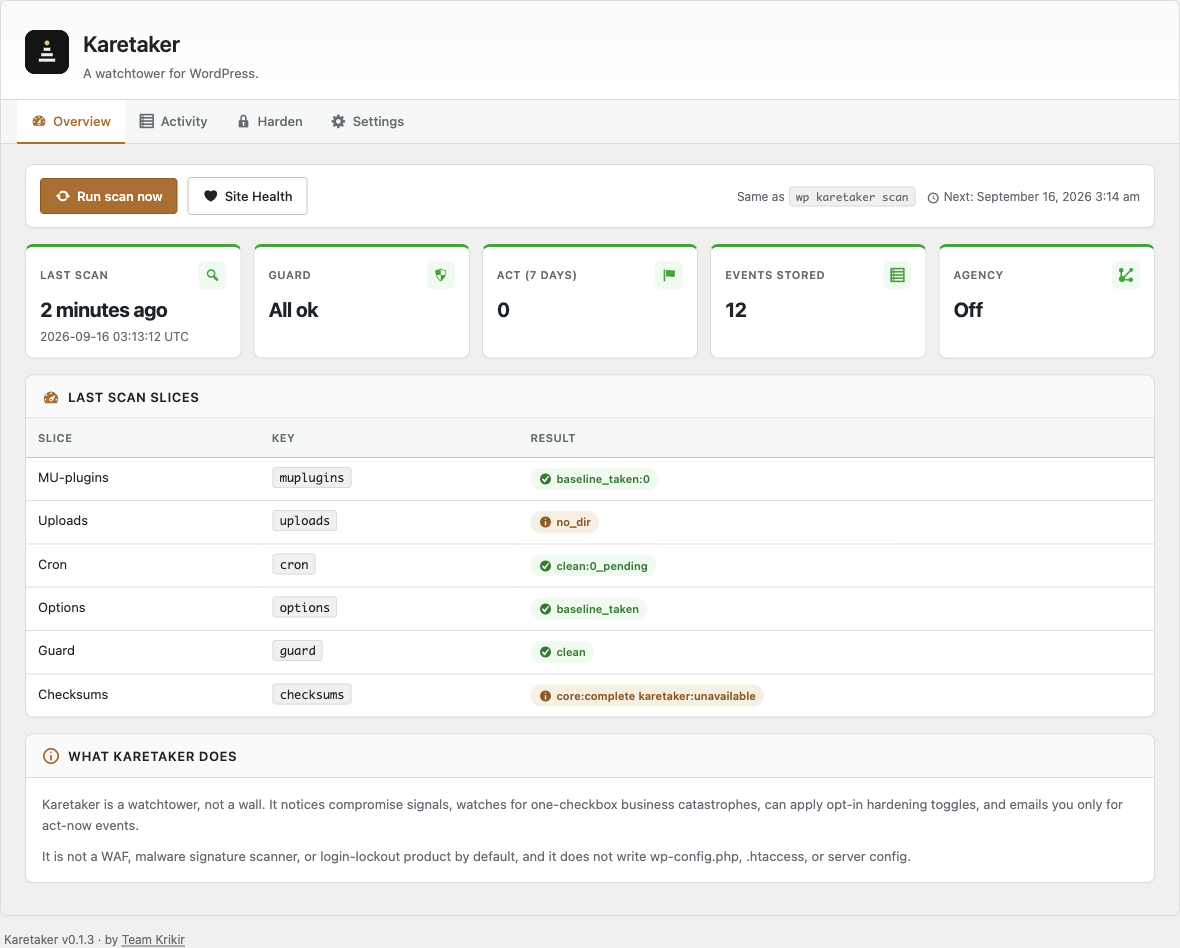
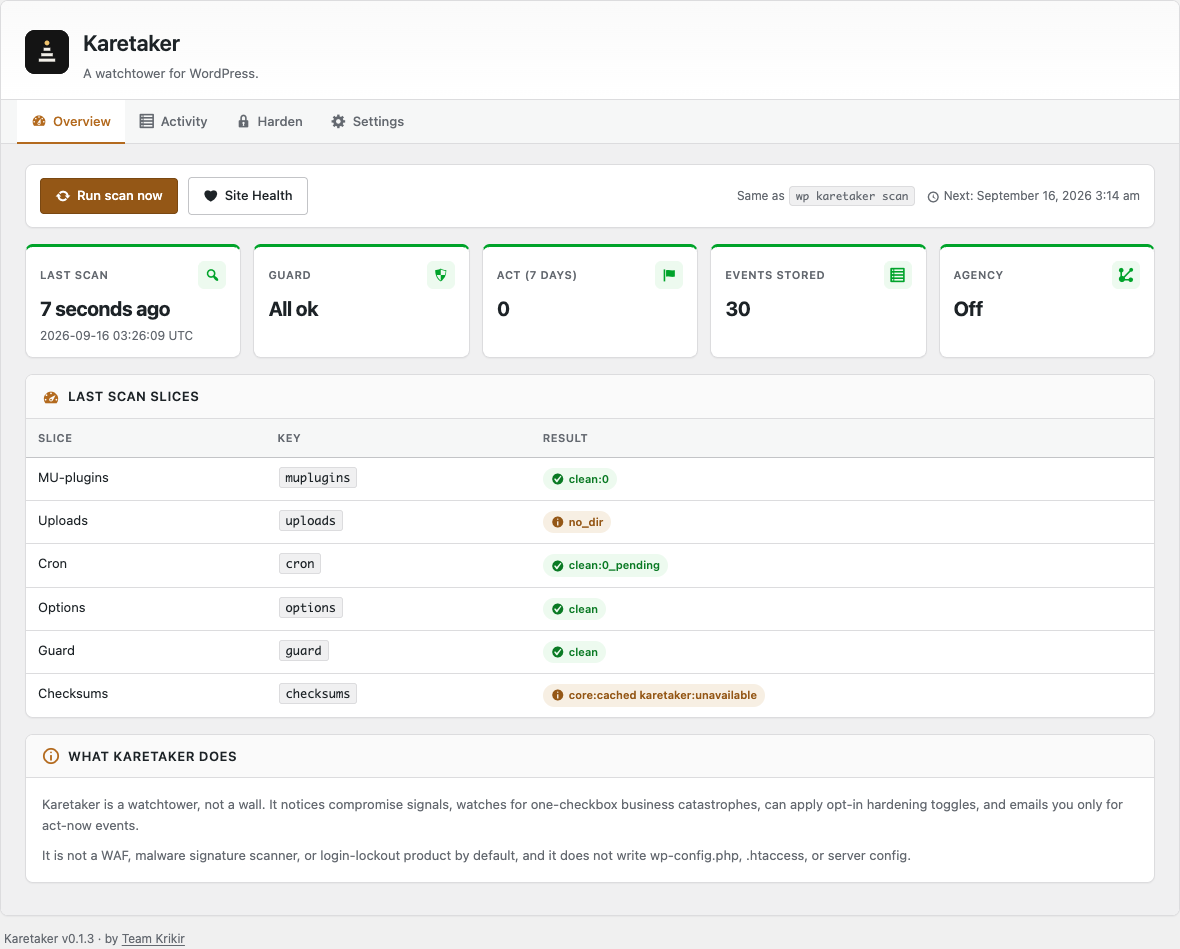
Recapture screenshots with Playwright element shots.
Use one scripted method so admin frames keep the logo and full height, and the ACT email is captured without iframe clipping.

diff --git a/tools/capture-screenshots.py b/tools/capture-screenshots.py
@@ -1,0 +1,228 @@
+#!/usr/bin/env python3
+"""Capture Karetaker admin screenshots via Playwright (full element, no clip)."""
+
+from __future__ import annotations
+
+import sys
+from pathlib import Path
+
+from playwright.sync_api import sync_playwright
+
+ROOT = Path(__file__).resolve().parents[1]
+OUT = ROOT / "assets"
+BASE = "http://127.0.0.1:9410"
+CHROME = (
+	Path.home()
+	/ "Library/Caches/ms-playwright/chromium-1243/chrome-mac-arm64"
+	/ "Google Chrome for Testing.app/Contents/MacOS/Google Chrome for Testing"
+)
+
+TABS = [
+	("screenshot-1.png", f"{BASE}/wp-admin/admin.php?page=karetaker", ".karetaker-wrap"),
+	("screenshot-2.png", f"{BASE}/wp-admin/admin.php?page=karetaker&tab=activity", ".karetaker-wrap"),
+	("screenshot-3.png", f"{BASE}/wp-admin/admin.php?page=karetaker&tab=harden", ".karetaker-wrap"),
+	("screenshot-4.png", f"{BASE}/wp-admin/admin.php?page=karetaker&tab=settings", ".karetaker-wrap"),
+	("screenshot-5.png", f"{BASE}/wp-admin/admin.php?page=karetaker&tab=settings", ".kt-email-preview"),
+	("screenshot-6.png", f"{BASE}/wp-admin/admin.php?page=karetaker", ".karetaker-wrap"),
+]
+
+
+def prep(page) -> None:
+	page.evaluate(
+		"""() => {
+			document.getElementById('wp-auth-check-wrap')?.remove();
+			document.querySelectorAll('.wp-auth-check-close').forEach((e) => e.click());
+			['adminmenumain', 'wpadminbar', 'wpfooter'].forEach((id) => {
+				const el = document.getElementById(id);
+				if (el) el.style.display = 'none';
+			});
+			const content = document.getElementById('wpcontent');
+			if (content) {
+				content.style.marginLeft = '0';
+				content.style.paddingLeft = '24px';
+				content.style.paddingRight = '24px';
+			}
+			document.body.classList.remove('folded', 'auto-fold');
+		}"""
+	)
+
+
+def wait_ready(page, selector: str) -> None:
+	page.wait_for_selector(selector, timeout=30000)
+	page.wait_for_load_state("networkidle")
+	# Brand mark / logo must finish painting.
+	page.wait_for_function(
+		"""() => {
+			const img = document.querySelector('.kt-brand__mark-img, .kt-brand img');
+			if (!img) return true;
+			return img.complete && img.naturalWidth > 0;
+		}""",
+		timeout=15000,
+	)
+	page.wait_for_timeout(400)
+
+
+def fetch_login_cookies() -> list[dict]:
+	"""Use curl auto-login cookies so Playwright skips the login form."""
+	import subprocess
+	import tempfile
+
+	jar_path = tempfile.mktemp(prefix="kt-cookies-")
+	subprocess.run(
+		[
+			"curl",
+			"-s",
+			"-c",
+			jar_path,
+			"-b",
+			jar_path,
+			"-L",
+			f"{BASE}/?playground-auto-login=1",
+			"-o",
+			"/dev/null",
+		],
+		check=True,
+	)
+	cookies: list[dict] = []
+	for line in Path(jar_path).read_text().splitlines():
+		if not line or (line.startswith("#") and not line.startswith("#HttpOnly_")):
+			continue
+		line = line.replace("#HttpOnly_", "", 1)
+		parts = line.split("\t")
+		if len(parts) < 7:
+			continue
+		domain, _flag, path, _secure, _exp, name, value = parts[:7]
+		cookies.append(
+			{
+				"name": name,
+				"value": value,
+				"domain": domain,
+				"path": path or "/",
+			}
+		)
+	Path(jar_path).unlink(missing_ok=True)
+	return cookies
+
+
+def main() -> int:
+	if not CHROME.exists():
+		print("Chromium binary missing:", CHROME, file=sys.stderr)
+		return 1
+
+	cookies = fetch_login_cookies()
+	if not any(c["name"].startswith("wordpress_logged_in") for c in cookies):
+		print("Auto-login cookies missing", file=sys.stderr)
+		return 1
+
+	with sync_playwright() as p:
+		browser = p.chromium.launch(
+			executable_path=str(CHROME),
+			headless=True,
+		)
+		context = browser.new_context(
+			viewport={"width": 1440, "height": 2400},
+			device_scale_factor=1,
+		)
+		context.add_cookies(cookies)
+		page = context.new_page()
+
+		page.goto(f"{BASE}/wp-admin/admin.php?page=karetaker", wait_until="domcontentloaded")
+		if "wp-login.php" in page.url:
+			print("Login failed:", page.url, file=sys.stderr)
+			return 1
+		print("logged in:", page.url)
+
+		# Warm overview + run scan once so Overview/Activity look alive.
+		page.goto(f"{BASE}/wp-admin/admin.php?page=karetaker", wait_until="domcontentloaded")
+		prep(page)
+		wait_ready(page, ".karetaker-wrap")
+		btn = page.locator("button.kt-btn--primary", has_text="Run scan now")
+		if btn.count():
+			btn.first.click()
+			page.wait_for_timeout(6000)
+			page.goto(f"{BASE}/wp-admin/admin.php?page=karetaker", wait_until="domcontentloaded")
+
+		for name, url, selector in TABS:
+			page.goto(url, wait_until="domcontentloaded")
+			prep(page)
+			wait_ready(page, ".karetaker-wrap")
+
+			out = OUT / name
+
+			if name == "screenshot-5.png":
+				# Expand full HTML email (no clipped iframe) and capture as a clean frame.
+				html = page.evaluate(
+					"""() => {
+						const frame = document.querySelector('.kt-email-preview__frame');
+						return frame ? frame.getAttribute('srcdoc') : '';
+					}"""
+				)
+				if not html:
+					print("email srcdoc missing", file=sys.stderr)
+					return 1
+				email_page = context.new_page()
+				email_page.set_viewport_size({"width": 720, "height": 1600})
+				email_page.set_content(html, wait_until="load")
+				email_page.wait_for_function(
+					"""() => {
+						const img = document.querySelector('img');
+						return !img || (img.complete && img.naturalWidth > 0);
+					}""",
+					timeout=15000,
+				)
+				email_page.wait_for_timeout(300)
+				# Prefer the email root table (avoids giant empty canvas).
+				root = email_page.locator("body > table").first
+				if root.count():
+					root.screenshot(path=str(out), type="png", animations="disabled")
+				else:
+					email_page.screenshot(path=str(out), type="png", full_page=True, animations="disabled")
+				# Trim leftover whitespace if any.
+				try:
+					from PIL import Image, ImageChops
+
+					im = Image.open(out).convert("RGB")
+					bg = Image.new("RGB", im.size, (238, 240, 241))
+					diff = ImageChops.difference(im, bg)
+					bbox = diff.getbbox()
+					if bbox:
+						pad = 24
+						l, t, r, b = bbox
+						l = max(0, l - pad)
+						t = max(0, t - pad)
+						r = min(im.width, r + pad)
+						b = min(im.height, b + pad)
+						im.crop((l, t, r, b)).save(out)
+				except Exception:
+					pass
+				email_page.close()
+				print(f"wrote {out} ({out.stat().st_size} bytes)")
+				continue
+
+			if name == "screenshot-6.png":
+				# Quiet-week framing: remove noise notices, keep calm overview.
+				page.evaluate(
+					"""() => {
+						document.querySelectorAll('.kt-alert, .notice').forEach((n) => n.remove());
+						const body = document.querySelector('.kt-body');
+						if (!body || document.querySelector('.kt-quiet-banner')) return;
+						const ban = document.createElement('div');
+						ban.className = 'kt-quiet-banner';
+						ban.style.cssText = 'margin:0 0 14px;padding:12px 14px;border:1px solid #c3e6cb;border-radius:8px;background:#edfaef;color:#1e4620;font-size:13px;line-height:1.5;';
+						ban.textContent = 'A quiet week. Guard is clear, no act-now events, and the watchtower stays silent until something needs you.';
+						body.prepend(ban);
+					}"""
+				)
+				page.wait_for_timeout(200)
+
+			target = page.locator(selector).first
+			target.scroll_into_view_if_needed()
+			target.screenshot(path=str(out), type="png", animations="disabled")
+			print(f"wrote {out} ({out.stat().st_size} bytes)")
+
+		browser.close()
+	return 0
+
+
+if __name__ == "__main__":
+	raise SystemExit(main())
